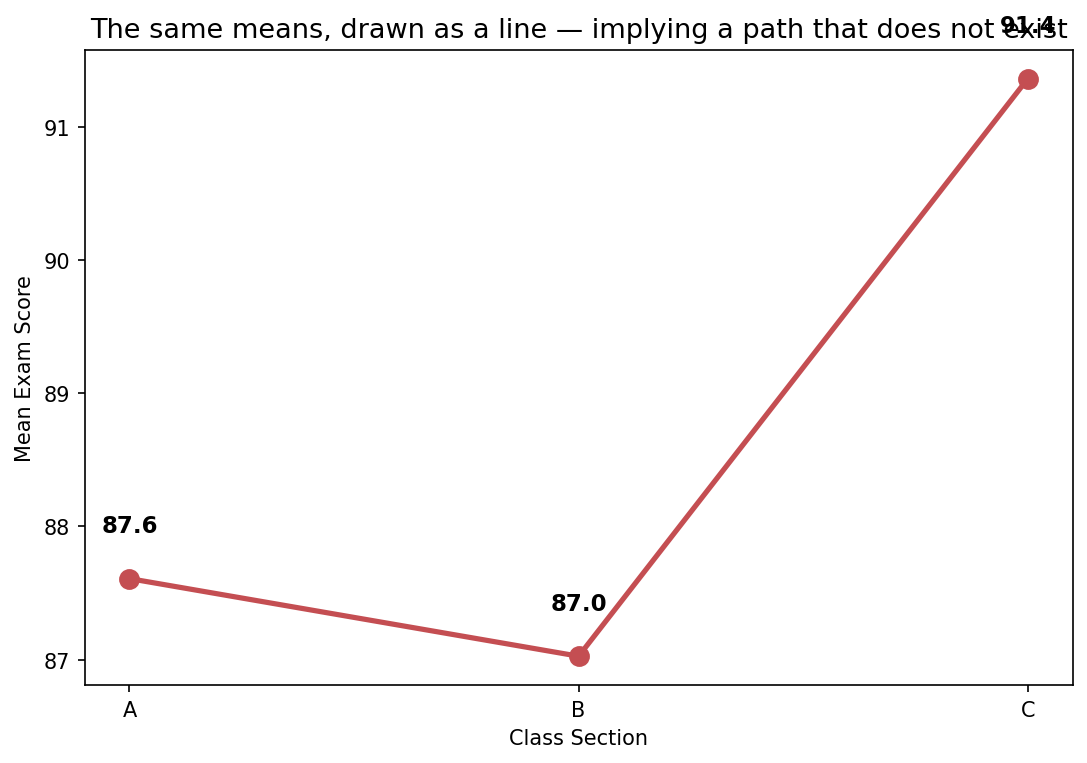
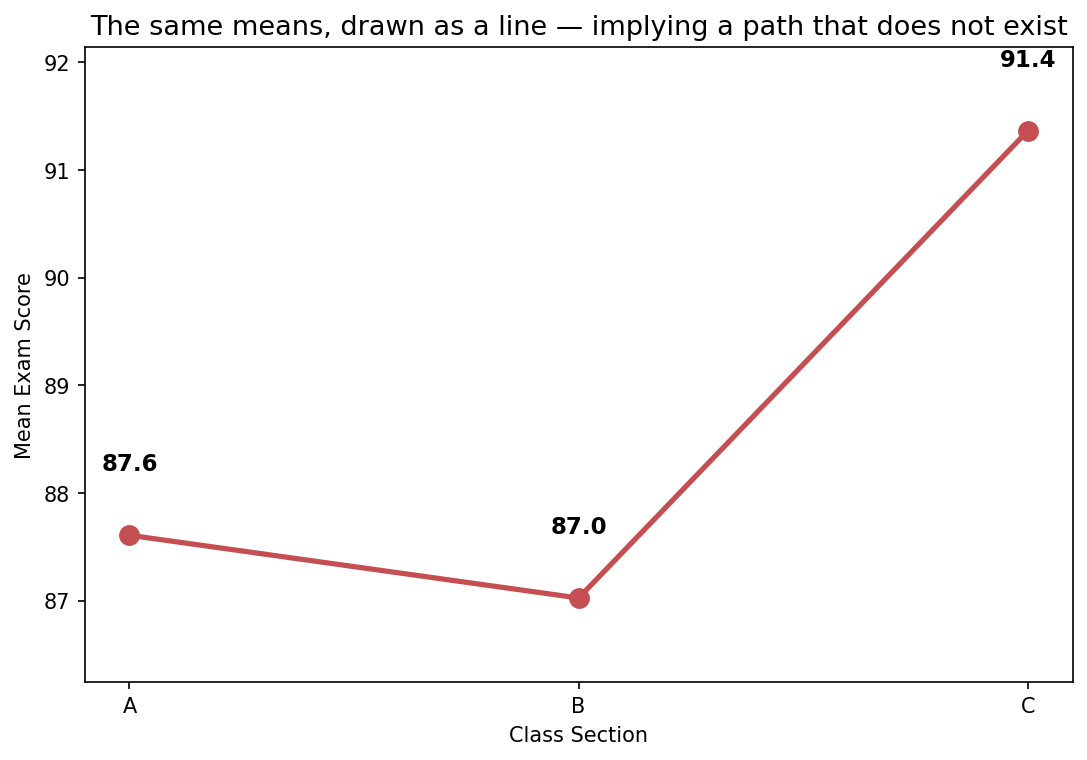
fix: trap chart title/label overlap (margins+assert), correct test count in SELF_REVIEW, accurate README collision-guard scope

diff --git a/README.md b/README.md
@@ -36,7 +36,7 @@ This lab was built deliberately to close two specific gaps from the Week 05 Frid
 | 6 | Arbitrary vs deliberate color; natural order explained | `chart_color_arbitrary.png` / `chart_color_deliberate.png` |
 | 7 | Self-audit: 3 claimed numbers vs 3 independent recomputations | in-notebook table |
 
-All 8 charts element-collision-guarded before save.
+The Step 6 collision exercise is guarded programmatically — `chart_collision_fixed.png` has a bounding-box assertion proving zero annotation/legend overlap before save, and the trap chart now runs the same title-overlap assertion. Other charts are checked structurally (axis labels, titles, PNG validity) rather than with per-chart overlap assertions.
 
 ## How to reproduce
 

diff --git a/SELF_REVIEW.md b/SELF_REVIEW.md
@@ -38,7 +38,7 @@ by a notebook cell reference or a test assertion — nothing is "should work".
 | Color deliberate, bars in natural order | PASS | Step 7: arbitrary (anti-pattern) + deliberate (single hue, one accent); A→B→C order maintained |
 | Self-audit table: 3 claimed vs 3 recomputed | PASS | Step 8: `np.corrcoef` + boolean-mask methods; `ALL THREE MATCH` asserted |
 | All 8 PNGs exist and are valid images | PASS | `test_all_required_pngs_exist_and_are_valid_images` passes; all >5 KB |
-| Tests pass | PASS | 8/8 in `test_precision_checks.py` |
+| Tests pass | PASS | 21/21 in `test_precision_checks.py` (8 structural + 13 adversarial) |
 
 ## What Each Chart Does and Why It Is the Right Tool
 
